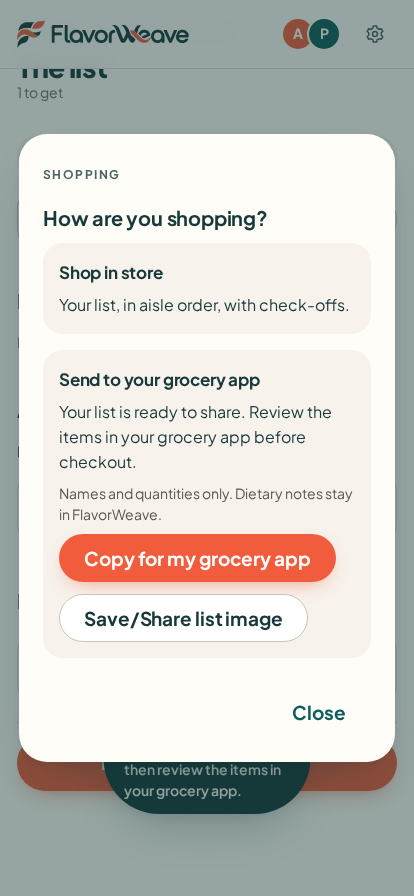
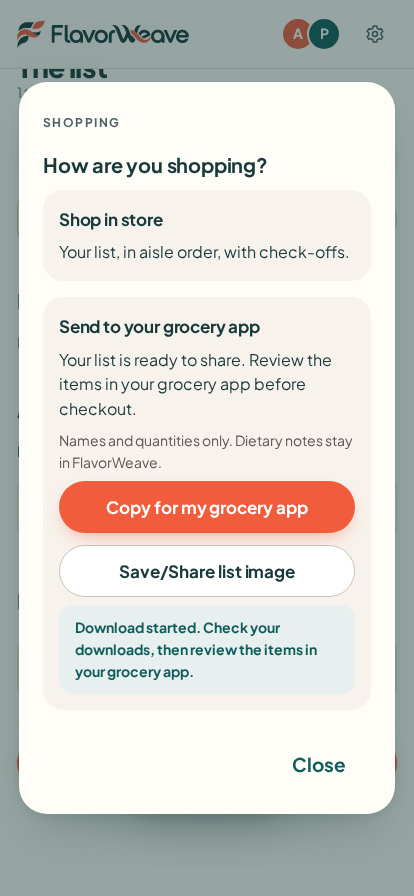
docs: re-render S-05C list image (inline rows) and sheet screenshots after release review

diff --git a/docs/shopping/assets/S-05C-COMPARISON.md b/docs/shopping/assets/S-05C-COMPARISON.md
@@ -38,11 +38,12 @@ Against `test-list.txt`:
 
 `synthetic-app.png` is one 1080-wide canvas at device-pixel ratio 2.
 
-- White background, title “Shopping list,” quantities in bold, names in regular weight, ink `#17393A`.
+- White background, title “Shopping list,” ink `#17393A`.
+- Each item is one inline line: the quantity and unit in bold, one normal space, then the name (“**3** bananas”, “**½ cup** cilantro”). There is no quantity column and no wide gap, so text recognition does not split a quantity from its item. A wrapped name hangs under the name, not under the quantity. (Release review, 2026-10-17, replaced the earlier two-column layout.)
+- A wrap breaks before a parenthetical group such as “(24 oz)” when that group fits on the next line, instead of inside it. At 1080 px every synthetic line fits on one row, including “1 jar Rao's marinara sauce (24 oz)”.
 - Unicode fractions render: ½, 1 ½, 1 ¼, ⅔, ⅛. Rao's apostrophe is intact.
 - No group headings and no hairline rules. The reference image has both.
-- “Rao's marinara sauce (24 oz)” wraps, with “oz)” on the second line. The reference kept that line on one row. Nothing is clipped.
 - The FlavorWeave word sits at the bottom right, outside the item rows.
 - One image. The list does not exceed the page cap.
 
-Sheet screenshots at 375, 390, 414, and desktop are in `screens/`.
+Sheet screenshots at 375, 390, 414, and desktop are in `screens/`. They show the sheet after an image download (download fallback), with the in-sheet status line. Insets are symmetric and both actions span the row at 52 px.
